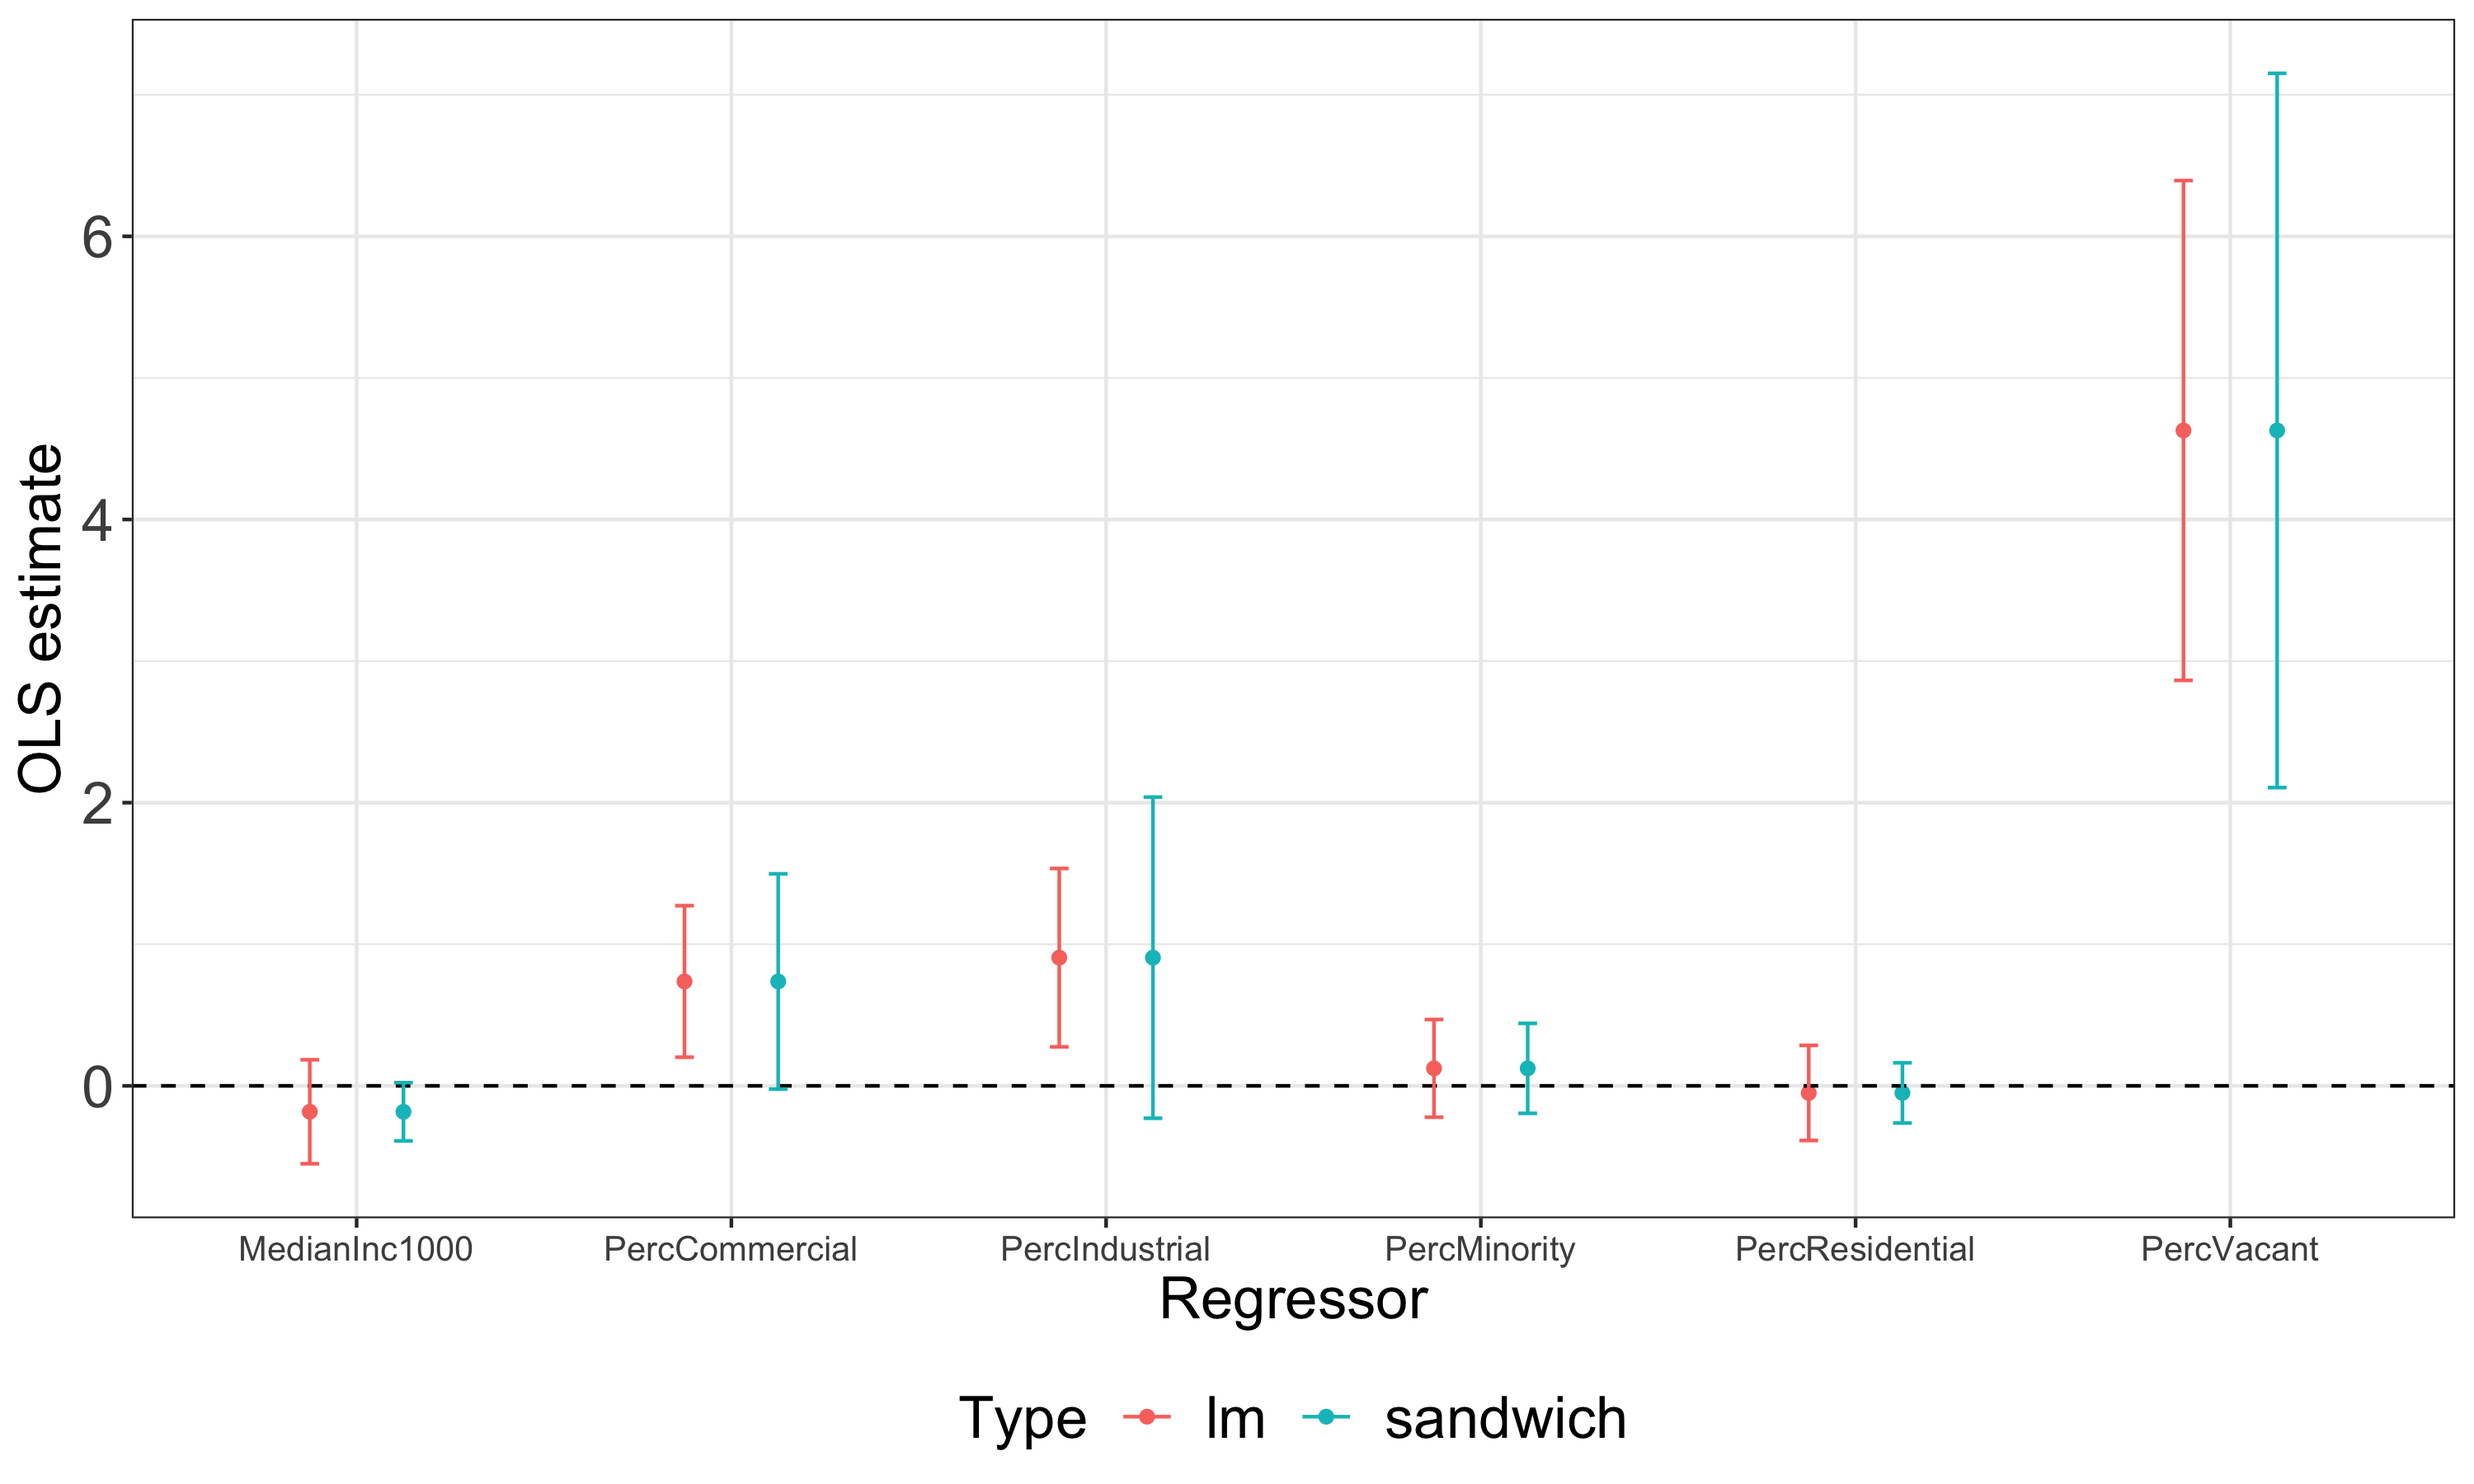
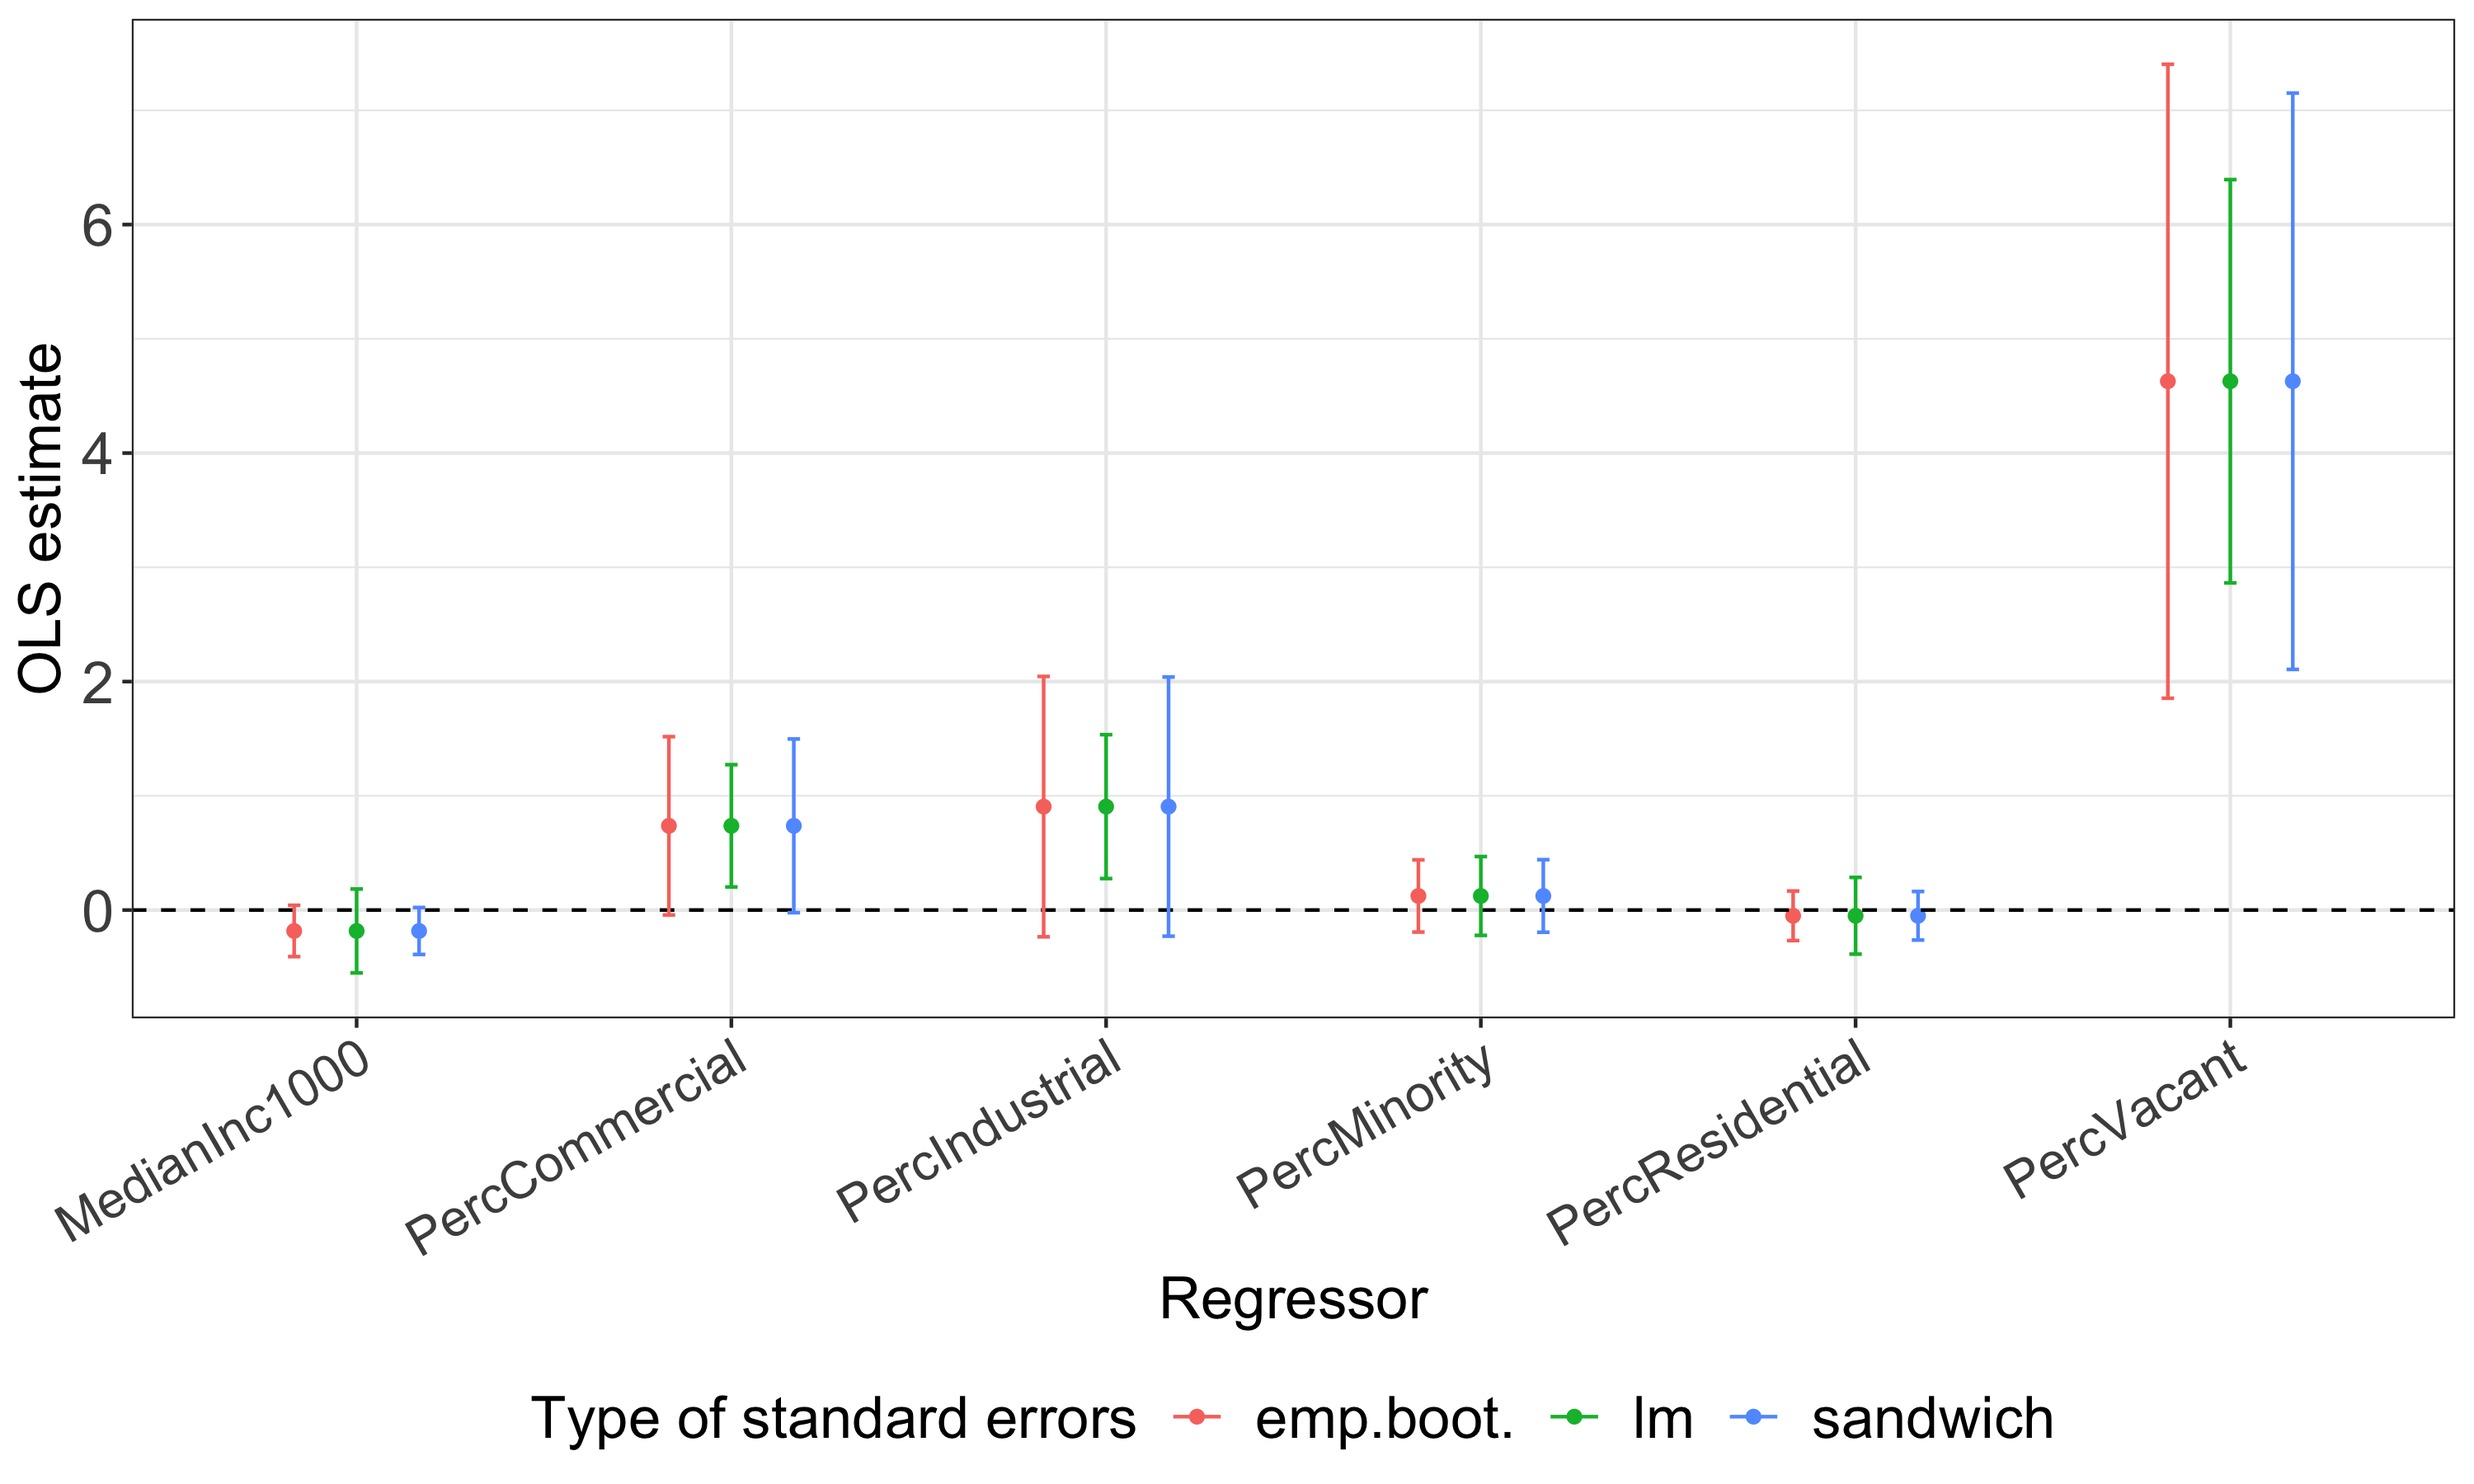
adjusted parameters for confidence intervals plot

diff --git a/vignettes/figures/output/r02b_se_emp.tex b/vignettes/figures/output/r02b_se_emp.tex
@@ -1,18 +1,18 @@
-% latex table generated in R 4.0.2 by xtable 1.8-4 package
-% Sun Dec 13 17:32:57 2020
+% latex table generated in R 4.0.3 by xtable 1.8-4 package
+% Mon Dec 14 00:19:37 2020
 \begin{table}[ht]
 \centering
 \begin{tabular}{lrrrr}
   \hline
 Term & $\widehat{\beta}_{j}$ & $SE_{\text{boot}}$ & $t_{\text{boot}}$ & $p_{\text{boot}}$ \\ 
   \hline
-(Intercept) & 0.76 & 16.83 & 0.05 & 0.04 \\ 
-  MedianInc1000 & -0.18 & 0.12 & -1.53 & 0.88 \\ 
-  PercCommercial & 0.74 & 0.41 & 1.81 & 0.94 \\ 
-  PercIndustrial & 0.91 & 0.57 & 1.58 & 0.89 \\ 
-  PercMinority & 0.12 & 0.17 & 0.74 & 0.54 \\ 
-  PercResidential & -0.05 & 0.11 & -0.44 & 0.36 \\ 
-  PercVacant & 4.63 & 1.38 & 3.35 & 0.99 \\ 
+(Intercept) & 0.76 & 17.42 & 0.04 & 0.03 \\ 
+  MedianInc1000 & -0.18 & 0.11 & -1.60 & 0.89 \\ 
+  PercCommercial & 0.74 & 0.40 & 1.85 & 0.93 \\ 
+  PercIndustrial & 0.91 & 0.58 & 1.56 & 0.89 \\ 
+  PercMinority & 0.12 & 0.16 & 0.77 & 0.56 \\ 
+  PercResidential & -0.05 & 0.11 & -0.45 & 0.35 \\ 
+  PercVacant & 4.63 & 1.42 & 3.27 & 0.99 \\ 
    \hline
 \end{tabular}
 \caption{Empirical Bootstrap Standard Errors} 

diff --git a/vignettes/figures/output/r01_se_sand.tex b/vignettes/figures/output/r01_se_sand.tex
@@ -1,5 +1,5 @@
-% latex table generated in R 4.0.2 by xtable 1.8-4 package
-% Sun Dec 13 17:33:02 2020
+% latex table generated in R 4.0.3 by xtable 1.8-4 package
+% Mon Dec 14 00:19:40 2020
 \begin{table}[ht]
 \centering
 \begin{tabular}{lrrrrr}
